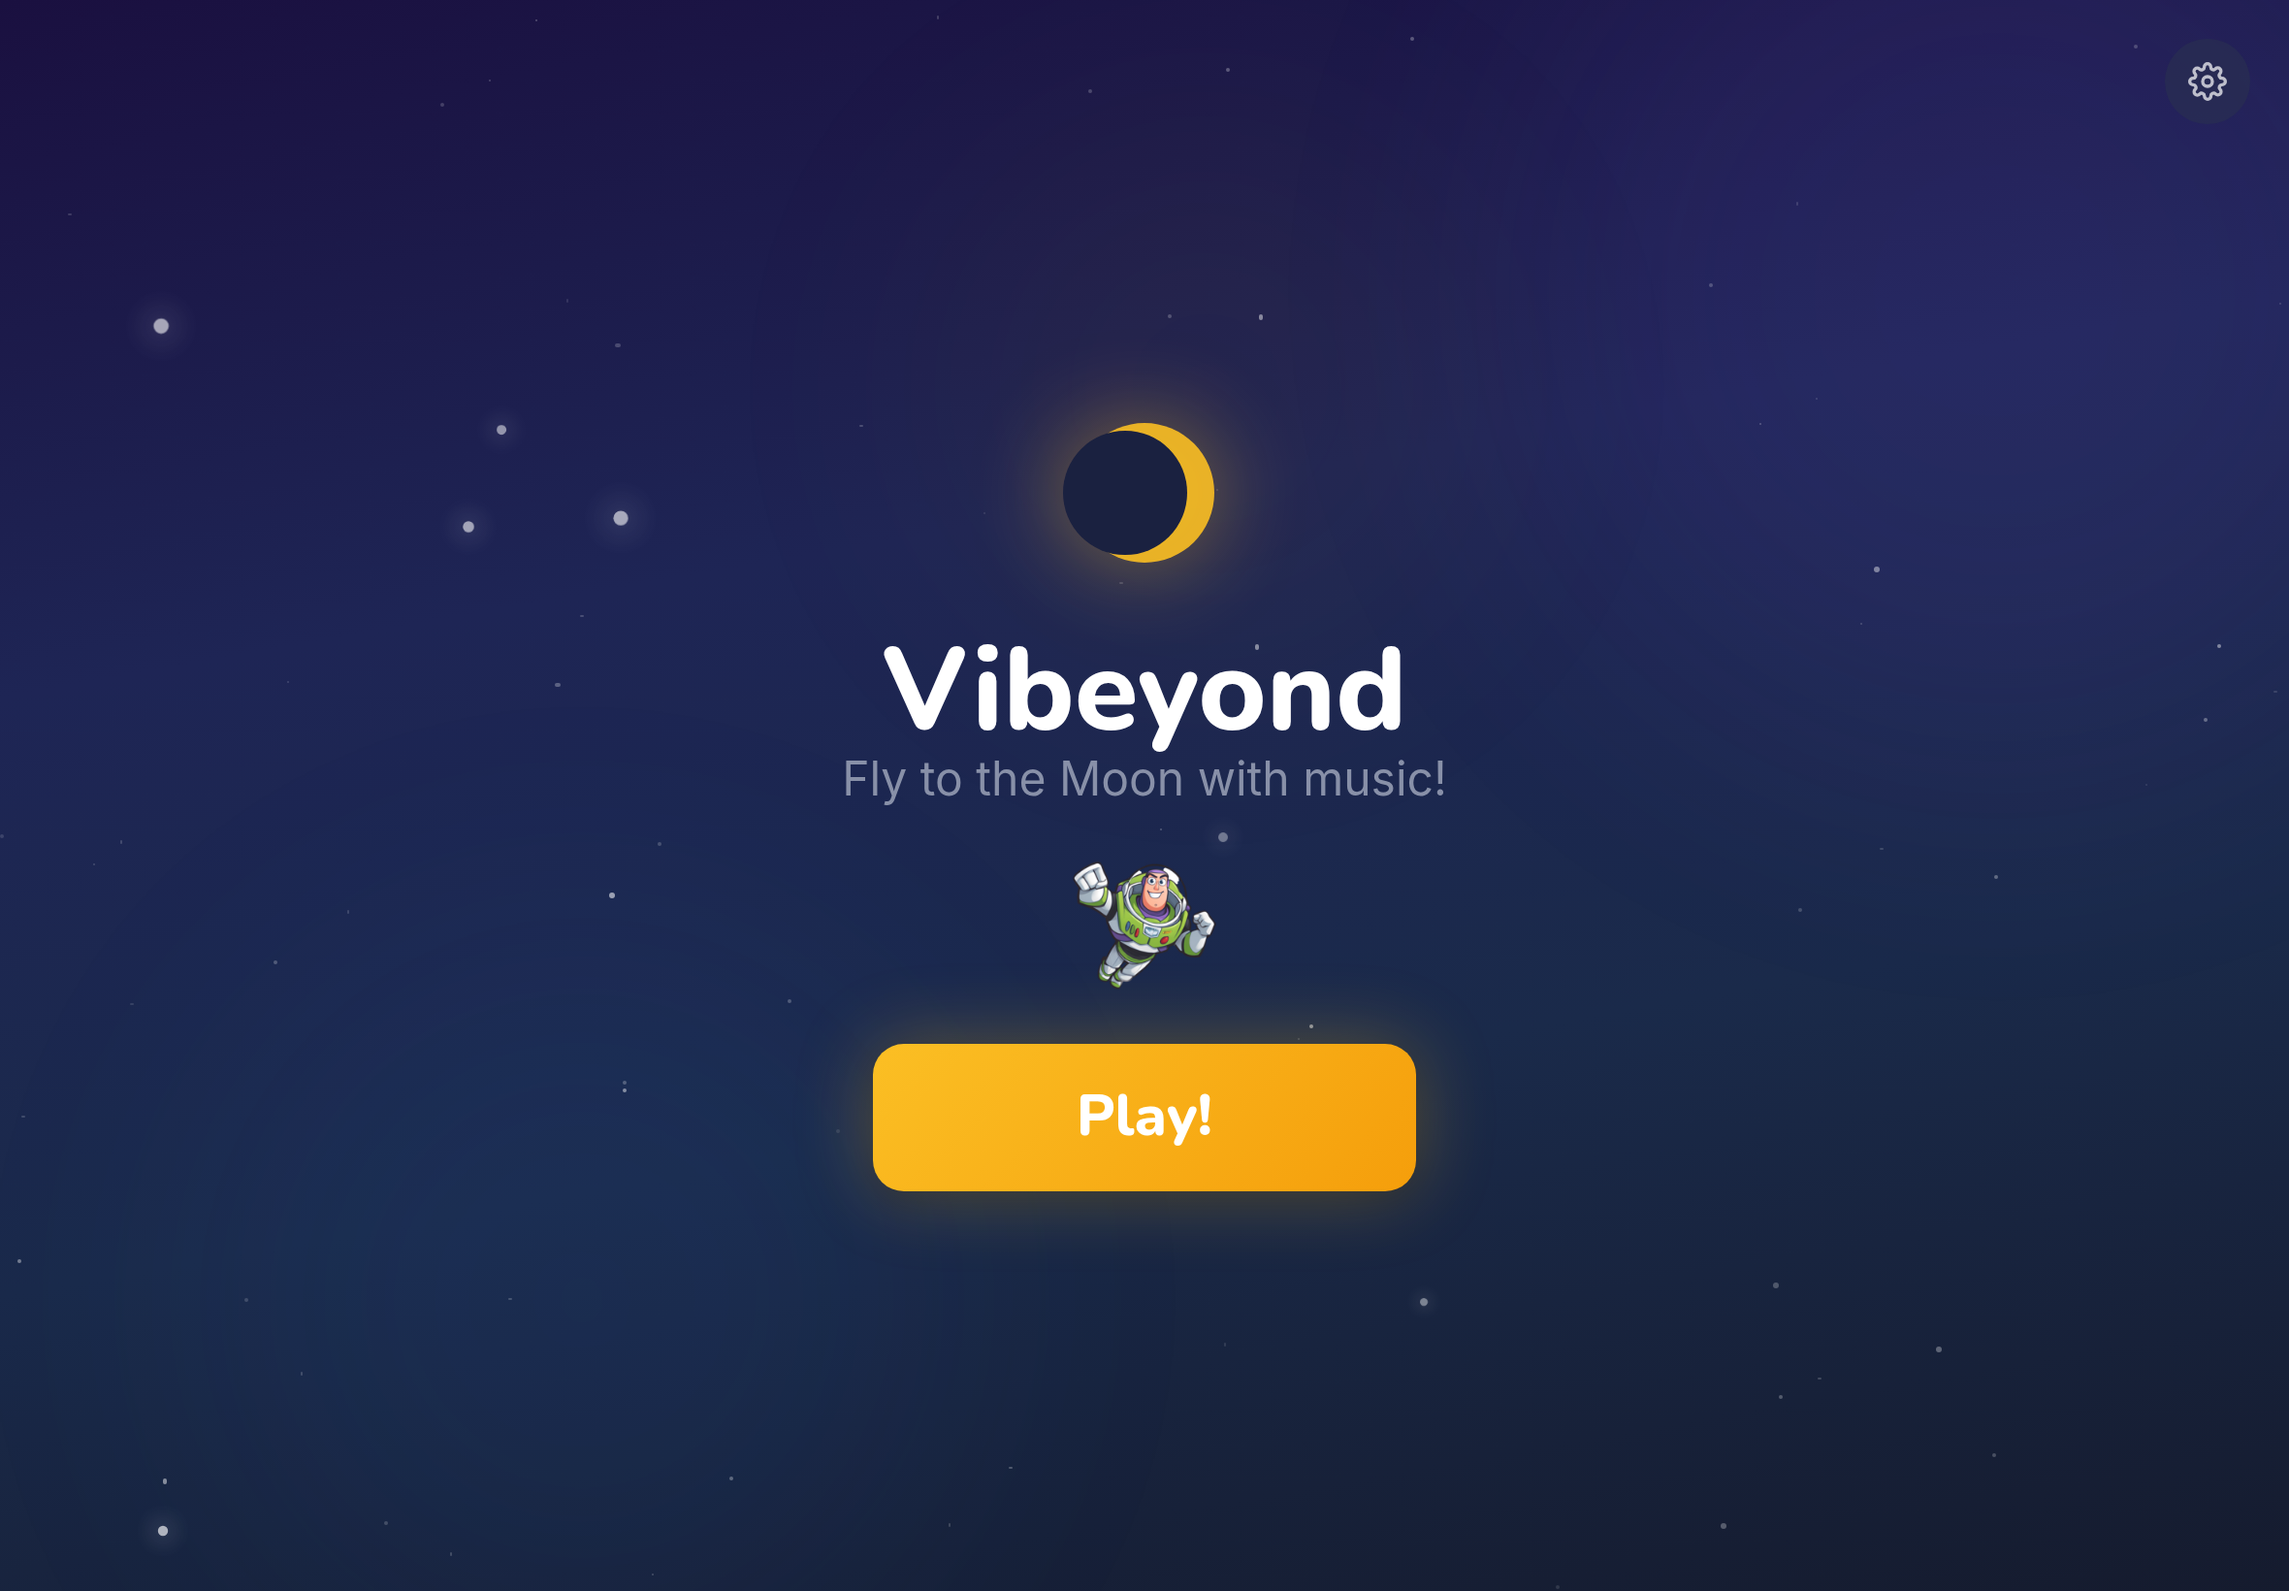
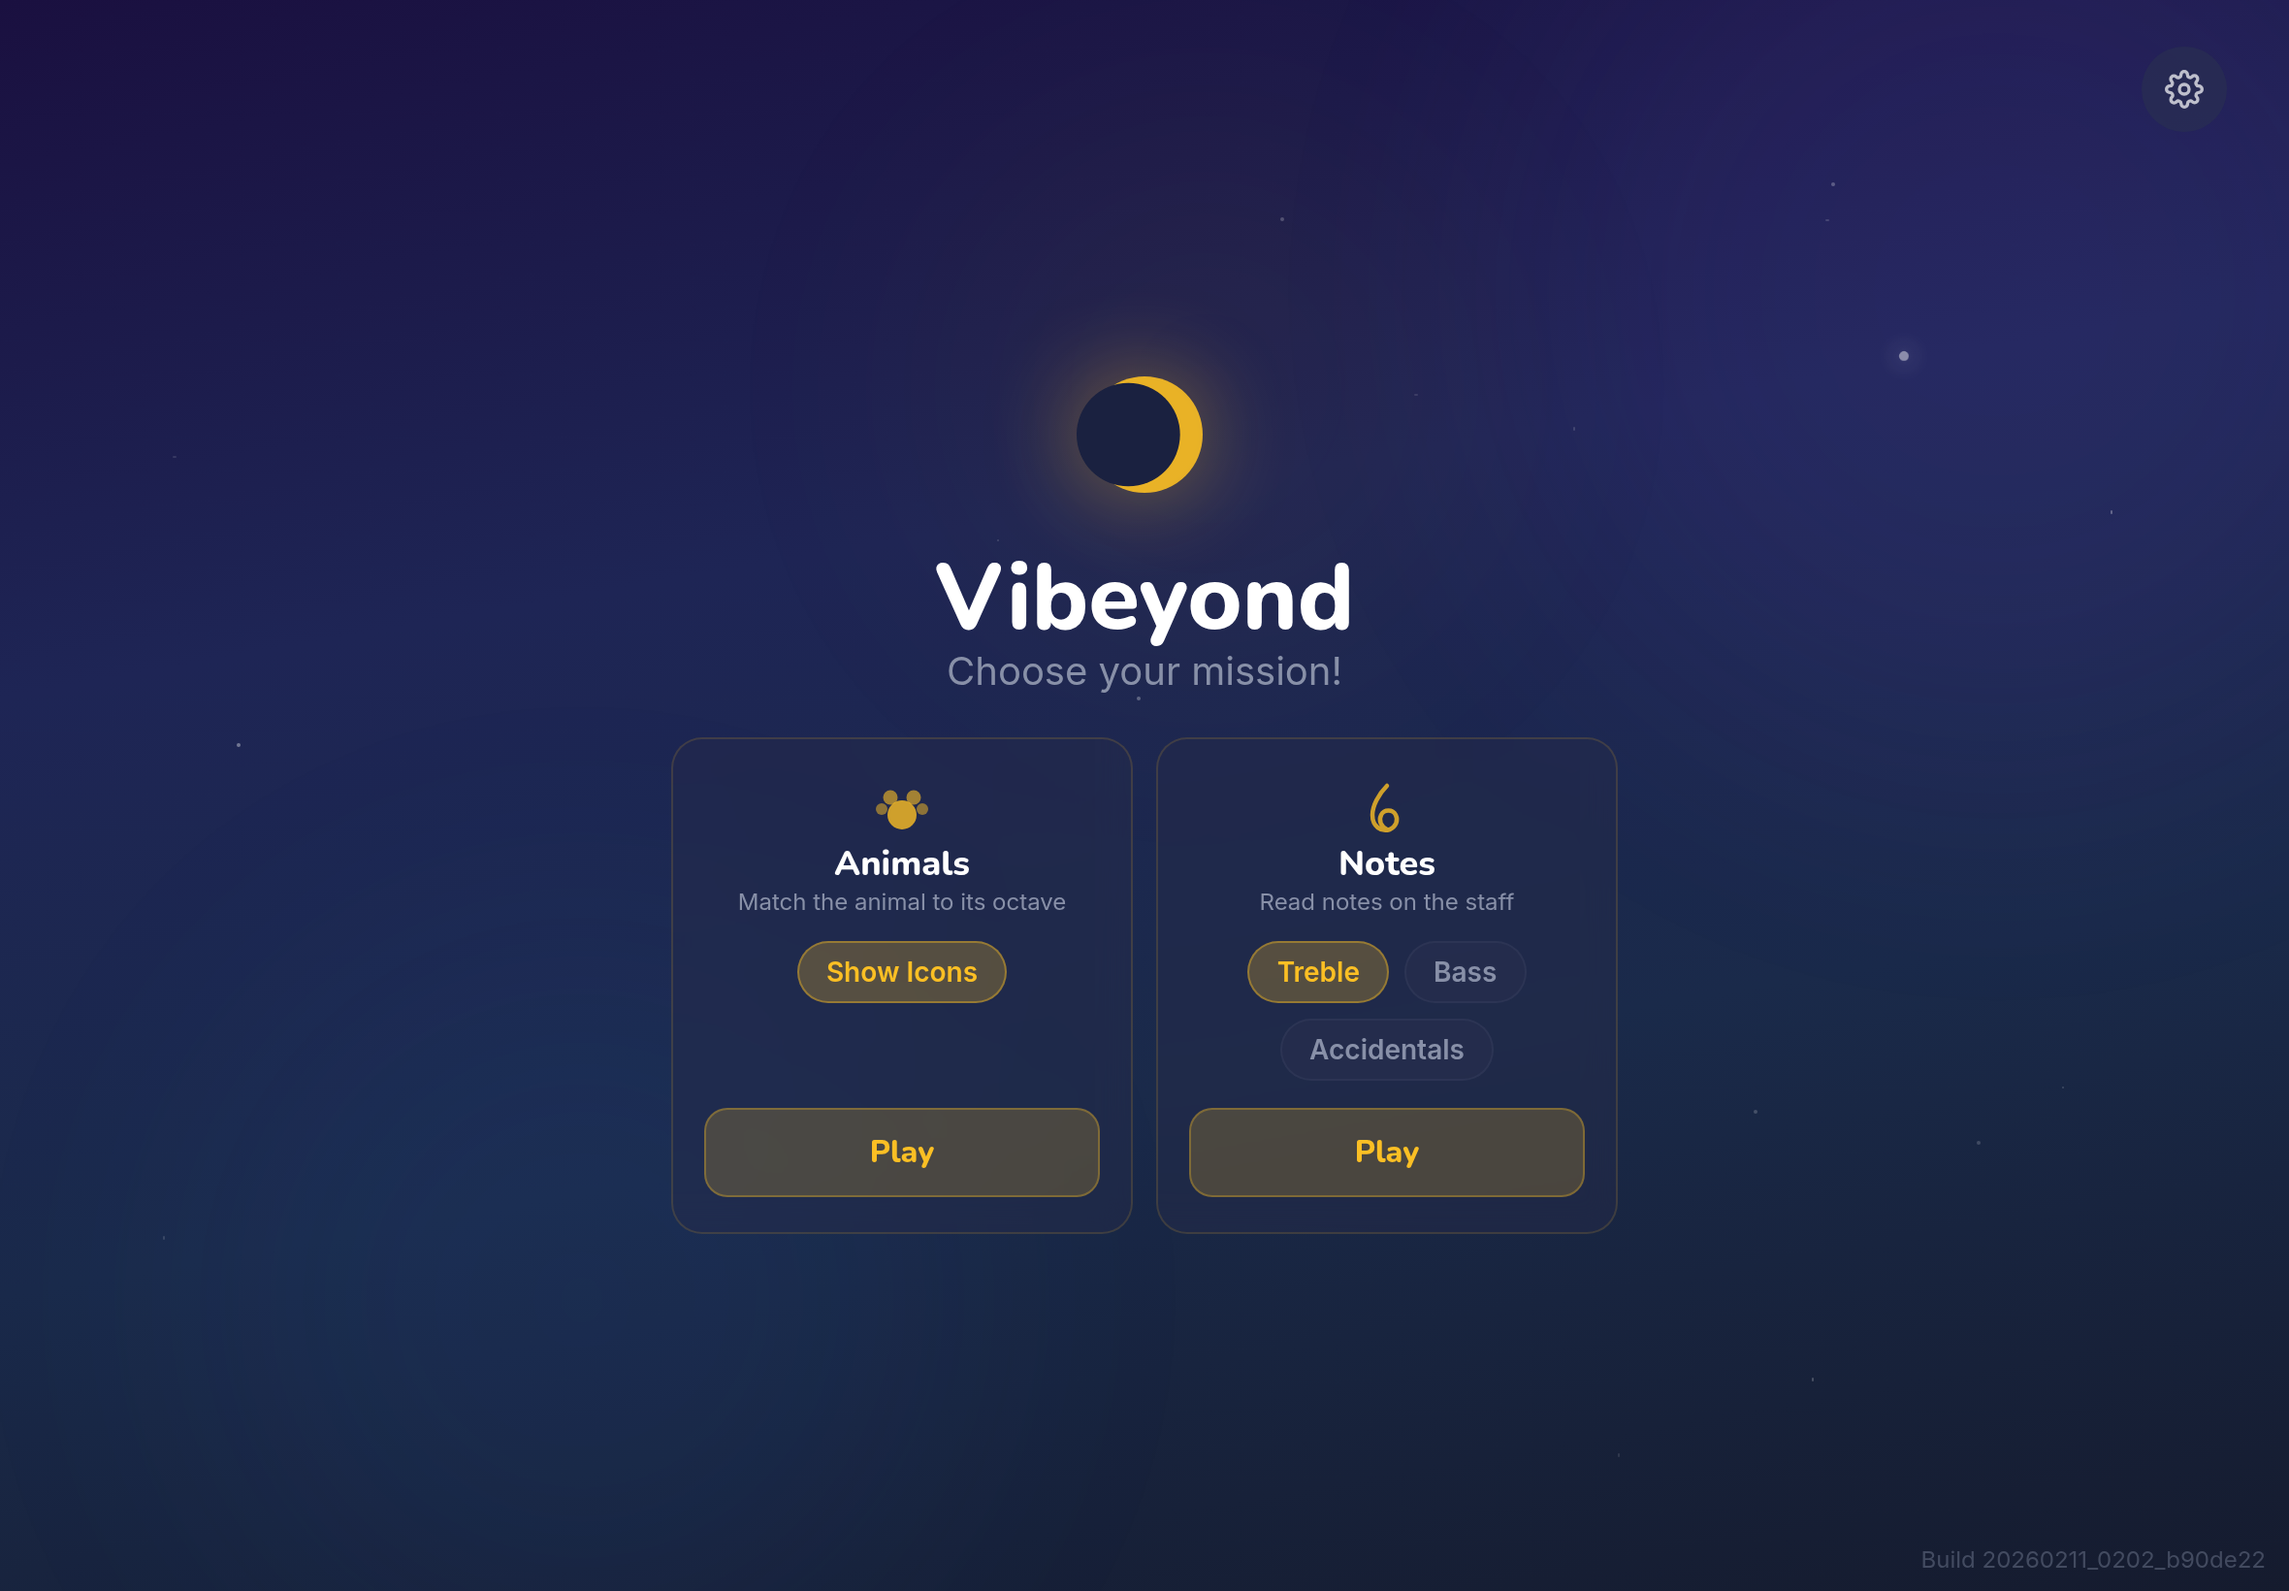
Fix iOS safe area, add build stamp, update README + screenshots
- Set body background-color to fill iOS safe area behind home indicator
- Use 100dvh for full viewport coverage in standalone PWA mode
- Add build ID (YYYYMMDD_HHMM_<git hash>) to home screen via Vite define
- Rewrite README with current features, two missions, PWA install guide
- Capture new screenshots: home, animal session, notes session

diff --git a/README.md b/README.md
@@ -2,55 +2,55 @@
 
 **Fly to the Moon, one note at a time!**
 
-A gamified piano sight-reading app that turns music practice into a space adventure. Built for a 5-year-old, powered by spaced repetition, and developed in a single evening with [Claude Code](https://code.claude.com/docs/en/overview).
+A gamified piano note recognition app that turns music practice into a space adventure. Built for a 5-year-old, powered by spaced repetition, and developed with [Claude Code](https://code.claude.com/docs/en/overview).
 
-<p>
-  <img src="screenshots/readme-session.png" width="48%" alt="Session screen" />
-  <img src="screenshots/readme-celebration.png" width="48%" alt="Celebration screen" />
+<p align="center">
+  <img src="screenshots/01-home.png" width="70%" alt="Home screen — choose your mission" />
 </p>
 <p>
-  <img src="screenshots/readme-cards.png" width="48%" alt="Card Inspector" />
-  <img src="screenshots/readme-settings.png" width="48%" alt="Settings screen" />
+  <img src="screenshots/02-animal-session.png" width="48%" alt="Animal octave mission" />
+  <img src="screenshots/03-notes-session.png" width="48%" alt="Note reading mission" />
 </p>
 
 ## The Origin Story
 
-Most great software is born out of necessity. Vibeyond was born out of a Sunday afternoon negotiation that I realized I was losing.
-
 My 5-year-old son, Luca, and I had a deal: 20 minutes of Toy Story, followed by 10 minutes of piano sight-reading. When the timer went off, the transition from the high-stakes adventures of Buzz Lightyear to the static black-and-white lines of a music staff felt impossible. Sight-reading felt like a chore; space travel felt like a mission.
 
-I'd been looking for the perfect use case to stress-test Claude Code — a project to take vibe coding to infinity and beyond. So I decided to see if I could bridge this gap before the new week starts.
-
-### The Build Sprint
-
-The speed of the development process was, frankly, astounding. By acting as the "product owner" and "architect" while letting the agent handle the heavy lifting, I went from a frustrated "no" to a ready-to-test app in a single evening:
-
-| Phase | Time | Effort |
-|-------|------|--------|
-| PDD (Product Design) | 30m | Braindumping thoughts and constraints to the agent. |
-| TDD (Technical Design) | 30m | Answering clarifying questions on architecture (FSRS, IndexedDB). |
-| MVP Build | 1h | Core logic, staff rendering, and piano keyboard (including debugging). |
-| UX Polish | 2h | Animating Buzz, the space theme, and the Woody hint system. |
-| **Total** | **4 Hours** | **Ready for Luca to test tomorrow.** |
+I'd been looking for the perfect use case to stress-test Claude Code -- a project to take vibe coding to infinity and beyond. So I decided to see if I could bridge this gap before the new week starts.
 
 ## How It Works
 
 A note appears on the staff. Tap the matching key on the piano. Get it right and Buzz flies closer to the Moon. Get it wrong and he drifts back. Reach the Moon to complete the session.
 
-Under the hood, [FSRS](https://github.com/open-spaced-repetition/ts-fsrs) (Free Spaced Repetition Scheduler) tracks which notes Luca knows well and which need more practice. Notes he struggles with come back more often. Notes he's mastered fade into the background. The app adapts to him, not the other way around.
+Under the hood, [FSRS](https://github.com/open-spaced-repetition/ts-fsrs) (Free Spaced Repetition Scheduler) tracks which notes the player knows well and which need more practice. Difficult notes come back more often; mastered notes fade into the background.
+
+## Missions
+
+### Animal Octaves
+An animal appears on screen (Elephant, Penguin, Hedgehog, or Mouse -- each mapped to an octave). Tap the matching octave button overlaid on the piano. Each animal plays a characteristic chord when selected. Animal icons on the buttons can be toggled on/off for difficulty.
+
+### Note Reading
+A note appears on the treble or bass clef staff. Identify it by tapping the correct key on the piano. Configurable options directly on the home screen:
+- **Treble** / **Bass** clef (or both)
+- **Accidentals** toggle (sharps and flats, including enharmonics like E#, Cb, B#, Fb)
 
 ## Features
 
-- **Space theme** -- Cozy, warm aesthetic inspired by Pixar's *La Luna*. Deep twilight blues, not harsh neon.
-- **Spaced repetition** -- FSRS schedules note challenges based on memory strength, not random order.
-- **Full accidental support** -- All sharps and flats, including theoretical enharmonics (E#, Cb, B#, Fb).
+- **Space theme** -- Cozy, warm aesthetic inspired by Pixar's *La Luna*. Deep twilight blues with animated star parallax.
+- **Two mission types** -- Animal octave recognition and note reading on the staff.
+- **Spaced repetition** -- FSRS schedules challenges based on memory strength, not random order.
+- **Salamander Grand Piano** -- Real piano samples via Tone.js, with a lightweight synth fallback while samples load.
+- **Hint system** -- Woody pops up with mnemonic hints for note reading (e.g. "Every Good Boy Does Fine").
+- **Realistic piano keyboard** -- No labels on keys. Parent-configurable range (full octaves, C2-B5 default).
+- **Progress tracking** -- Buzz flies along a progress bar toward the Moon. Mistakes cost a step back.
+- **Celebration screen** -- Firework animation with score summary when a session is completed.
 - **Enharmonic-aware evaluation** -- C# and Db are recognized as the same pitch.
-- **Realistic piano** -- No labels on keys. Configurable range (full octaves, C2-B5 default).
-- **Progress tracking** -- Buzz flies along a progress bar with star-dot milestones. Mistakes cost a full step back.
-- **Audio feedback** -- Tone.js plays the note you tap, with a global mute toggle.
 - **Card inspector** -- Parent-facing screen showing all FSRS cards, states, and success rates.
-- **Offline-first** -- IndexedDB via Dexie.js. No server, no account, no data leaves the device.
-- **iPad-optimized** -- Primary target is iPad in landscape, with safe area insets.
+- **Installable PWA** -- Service worker with auto-update. Install to home screen on iPad or any device.
+- **Offline-first** -- All data in IndexedDB via Dexie.js. No server, no account, no data leaves the device.
+- **iPad-optimized** -- Primary target is iPad in landscape, with iOS safe area support.
+- **Build stamp** -- Build ID shown on the home screen for version tracking.
+- **DB error recovery** -- If IndexedDB gets corrupted (e.g. after an update), a recovery dialog lets you reset and reload.
 
 ## Tech Stack
 
@@ -61,46 +61,69 @@ Under the hood, [FSRS](https://github.com/open-spaced-repetition/ts-fsrs) (Free 
 | Styling | Tailwind CSS 4 |
 | Animation | Framer Motion |
 | Music notation | VexFlow 5 |
-| Audio | Tone.js |
+| Audio | Tone.js (Salamander Grand Piano samples) |
 | Spaced repetition | ts-fsrs |
 | State management | Zustand |
 | Local database | Dexie.js (IndexedDB) |
+| PWA | vite-plugin-pwa (Workbox) |
 
 ## Getting Started
 
-On any computer on your home network:
-
 ```bash
 npm install
+npm run dev
+```
+
+The dev server starts on `http://localhost:5173`.
+
+To access from another device on your network (e.g. an iPad):
+
+```bash
 npm run dev -- --host
 ```
 
-Then open `http://your-server:5173` on your iPad (replace `your-server` with the computer's hostname or local IP address). The `--host` flag makes Vite listen on all network interfaces so the iPad can reach it.
+Then open `http://<your-ip>:5173` on the device.
+
+### Build for Production
+
+```bash
+npm run build
+npm run preview
+```
+
+### Run Tests
+
+```bash
+npm test
+```
+
+### Installing as a PWA
+
+Open the app in Safari (iPad/iPhone) or Chrome (Android/desktop), then use "Add to Home Screen" or the install prompt. The app works offline once installed and auto-updates when a new version is deployed.
 
 ### Parent Settings
 
 Tap the gear icon on the home screen to configure:
 
-- **Session length** -- How many correct answers to reach the Moon (default: 30).
+- **Session length** -- How many correct answers to reach the Moon (5-30, default 30).
 - **Note range** -- Which octaves appear on the piano keyboard.
-- **Clef** -- Treble, bass, or both.
-- **Card inspector** -- View all cards and their FSRS learning state.
+- **Card inspector** -- View all FSRS cards and their learning state.
 - **Reset data** -- Clear all progress and start fresh.
 
 ## Project Structure
 
 ```
 src/
-  components/    UI components (StaffDisplay, PianoKeyboard, ProgressionBar, ...)
+  components/    UI components (StaffDisplay, PianoKeyboard, AnimalPrompt, OctaveButtons, ...)
   screens/       Route screens (Home, Session, Settings, CardInspector)
-  logic/         Pure business logic (evaluate, scheduler, progression, noteUtils)
+  logic/         Pure business logic (evaluate, scheduler, progression, noteUtils, hints)
   store/         Zustand stores (settings, cards, session)
   db/            Dexie.js schema and database
+  missions.ts    Mission definitions and config-to-ID mapping
   types.ts       Shared TypeScript types
-docs/
-  PRD.md         Product requirements
-  TDD.md         Technical design
-  UX-SPEC.md     Visual design spec and review notes
+public/
+  *.png          Animal images (Pixar-style), character sprites, PWA icons
+  audio/         Chord audio samples for the animal mission
 ```
 
 ## License
